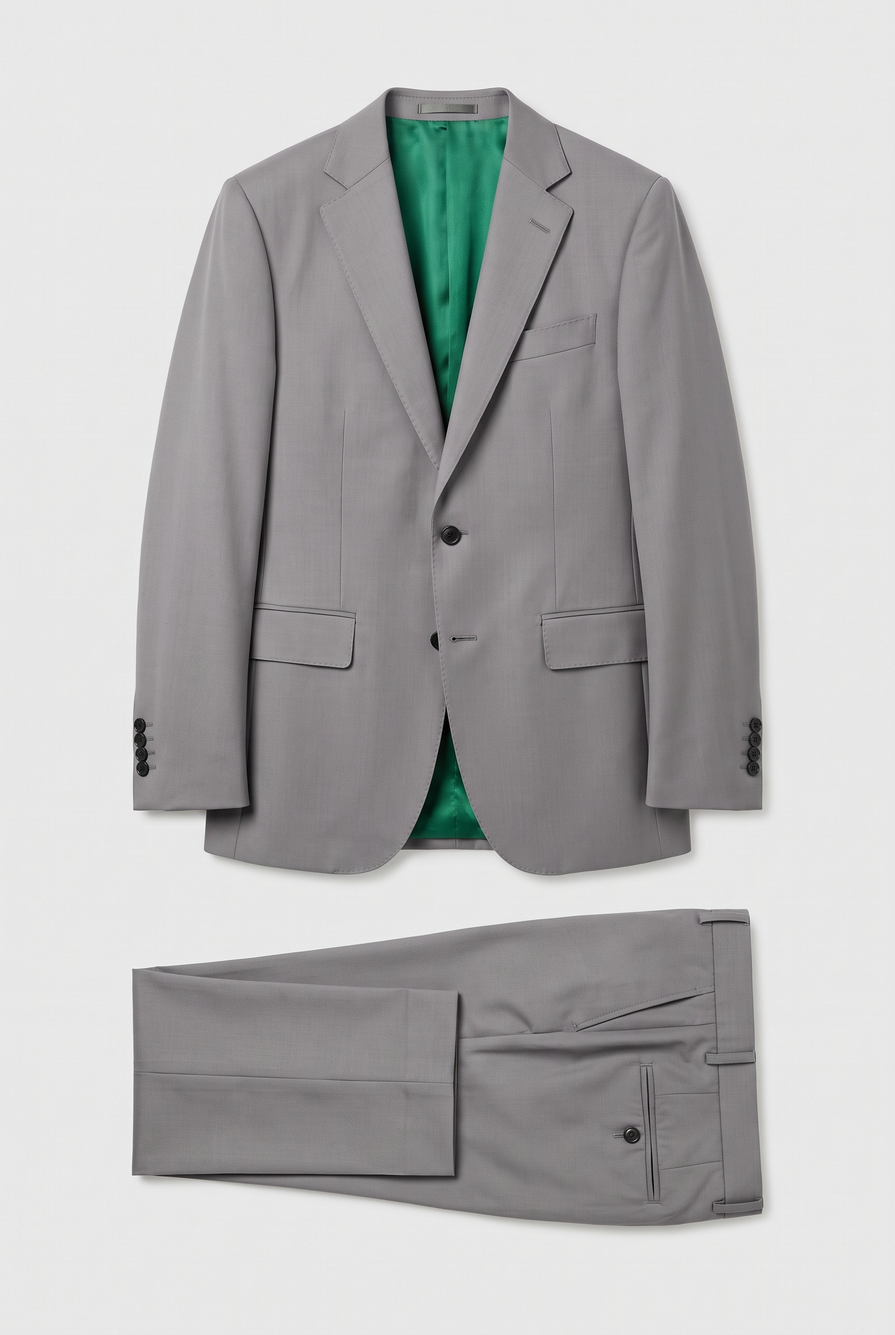
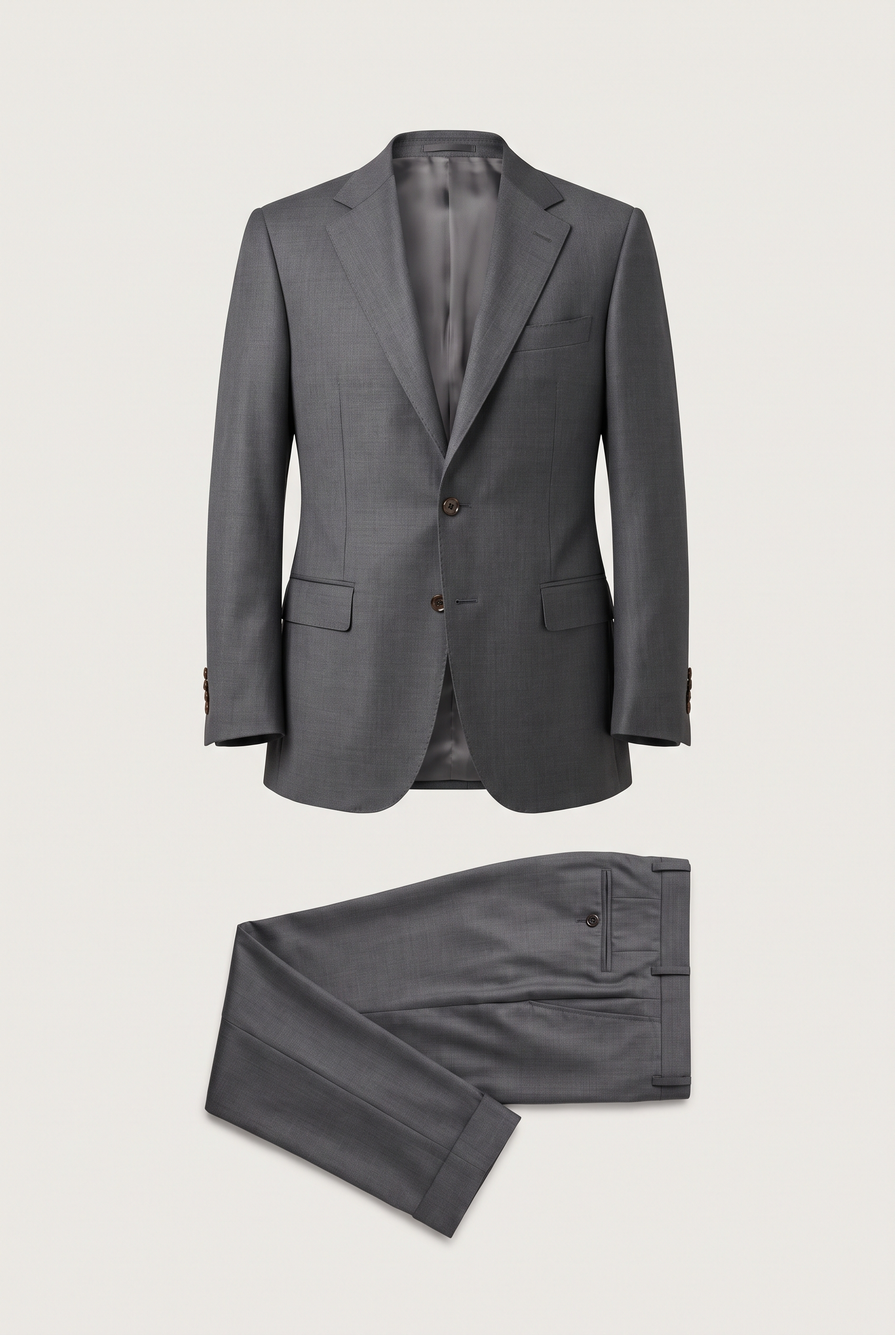
Suit designer: photographic front view from Nano Banana Pro luxury base shots, re-dyed per cloth with AI-matted masks (no background bleed)
Claude-Session: https://claude.ai/code/session_018gZGfgQVQEqPriUChi2SZJ

diff --git a/components/suit/Stage.tsx b/components/suit/Stage.tsx
@@ -3,21 +3,22 @@
 import { useCallback, useEffect, useRef, useState } from "react";
 import type { SuitConfig } from "@/lib/suit/types";
 import { SuitPreview, type PreviewView } from "./SuitPreview";
-import { ModelPreview, SKIN_TONES, type SkinToneId } from "./ModelPreview";
+import { SKIN_TONES, type SkinToneId } from "./ModelPreview";
+import { PhotoPreview } from "./PhotoPreview";
 
 /** Stage views: the photographic on-model views plus the flat technical drawings. */
 export type StageView = "model" | "modelBack" | PreviewView;
 
 const VIEW_LABELS: Record<StageView, string> = {
-  model: "On model",
+  model: "Front",
   modelBack: "Back",
-  front: "Flat",
-  back: "Flat back",
+  front: "Detail",
+  back: "Back",
   lining: "Inside",
   waistcoat: "Waistcoat",
 };
 
-const isModel = (v: StageView) => v === "model" || v === "modelBack";
+const isPhoto = (v: StageView) => v === "model";
 
 /** Close-up widths for the full-screen zoom, smallest first. Photos top out lower (source resolution). */
 const ZOOM_WIDTHS = ["min(170vw, 1000px)", "min(260vw, 1700px)", "min(380vw, 2500px)"];
@@ -33,35 +34,12 @@ function readSkin(): SkinToneId {
   }
 }
 
-function SkinSwatches({ skin, onSkin, compact = false }: { skin: SkinToneId; onSkin: (s: SkinToneId) => void; compact?: boolean }) {
-  return (
-    <div className={`flex items-center ${compact ? "gap-1" : "gap-1.5"}`} role="radiogroup" aria-label="Skin tone">
-      {!compact ? <span className="mr-1 text-[11px] uppercase tracking-wide text-muted">Skin</span> : null}
-      {SKIN_TONES.map((t) => {
-        const rgb = t.rgb ?? [164, 108, 81];
-        return (
-          <button
-            key={t.id}
-            type="button"
-            role="radio"
-            aria-checked={skin === t.id}
-            aria-label={`${t.label} skin tone`}
-            title={t.label}
-            onClick={() => onSkin(t.id)}
-            className={`h-6 w-6 rounded-full border ${skin === t.id ? "border-ink ring-1 ring-ink ring-offset-1" : "border-line"}`}
-            style={{ background: `rgb(${rgb.join(",")})` }}
-          />
-        );
-      })}
-    </div>
-  );
-}
-
-function Preview({ config, view, hideJacket, skin, fit, title }: { config: SuitConfig; view: StageView; hideJacket: boolean; skin: SkinToneId; fit: "contain" | "width"; title: string }) {
-  if (isModel(view)) {
-    return <ModelPreview config={config} view={view === "modelBack" ? "back" : "front"} hideJacket={hideJacket} skin={skin} fit={fit} className={fit === "width" ? "w-full" : "h-full w-full"} title={title} />;
+function Preview({ config, view, hideJacket, fit, title }: { config: SuitConfig; view: StageView; hideJacket: boolean; skin: SkinToneId; fit: "contain" | "width"; title: string }) {
+  const flat = (v: PreviewView) => <SuitPreview config={config} view={v} hideJacket={hideJacket} className={fit === "width" ? "block h-auto w-full" : "h-full w-full"} title={title} />;
+  if (isPhoto(view) && !hideJacket) {
+    return <PhotoPreview config={config} fit={fit} className={fit === "width" ? "w-full" : "h-full w-full p-[3%]"} title={title} fallback={flat("front")} />;
   }
-  return <SuitPreview config={config} view={view as PreviewView} hideJacket={hideJacket} className={fit === "width" ? "block h-auto w-full" : "h-full w-full"} title={title} />;
+  return flat(view === "model" ? "front" : view === "modelBack" ? "back" : (view as PreviewView));
 }
 
 function JacketIcon({ hidden }: { hidden: boolean }) {
@@ -92,10 +70,10 @@ export function Stage({
   const three = config.options["suit.pieces"] === "three";
   const [hideJacket, setHideJacket] = useState(false);
   const views: StageView[] = hideJacket
-    ? ["model", "modelBack", "front", "back"]
+    ? ["model", "back"]
     : three
-      ? ["model", "modelBack", "front", "back", "lining", "waistcoat"]
-      : ["model", "modelBack", "front", "back", "lining"];
+      ? ["model", "back", "lining", "waistcoat", "front"]
+      : ["model", "back", "lining", "front"];
   const current = views.includes(view) ? view : "model";
   const [zoomOpen, setZoomOpen] = useState(false);
   const [skin, setSkinState] = useState<SkinToneId>("brown");
@@ -174,19 +152,8 @@ export function Stage({
         <button type="button" onClick={() => setZoomOpen(true)} aria-label="Zoom" className="flex h-9 w-9 items-center justify-center border border-line bg-paper text-lg leading-none text-ink">
           +
         </button>
-        {isModel(current) ? (
-          <button
-            type="button"
-            onClick={() => setSkin(SKIN_TONES[(SKIN_TONES.findIndex((t) => t.id === skin) + 1) % SKIN_TONES.length]!.id)}
-            aria-label="Change skin tone"
-            className="flex h-9 w-9 items-center justify-center border border-line bg-paper"
-          >
-            <span className="h-5 w-5 rounded-full border border-line" style={{ background: `rgb(${(SKIN_TONES.find((t) => t.id === skin)?.rgb ?? [164, 108, 81]).join(",")})` }} />
-          </button>
-        ) : null}
       </div>
       <div className="hidden items-center justify-center gap-2 px-2 pb-3 sm:flex sm:px-4">
-        {isModel(current) ? <SkinSwatches skin={skin} onSkin={setSkin} /> : null}
         <button
           type="button"
           onClick={() => setHideJacket((h) => !h)}
@@ -231,7 +198,6 @@ function ZoomOverlay({
   hideJacket,
   onHideJacket,
   skin,
-  onSkin,
   onClose,
 }: {
   config: SuitConfig;
@@ -244,7 +210,7 @@ function ZoomOverlay({
   onSkin: (s: SkinToneId) => void;
   onClose: () => void;
 }) {
-  const widths = isModel(view) ? MODEL_ZOOM_WIDTHS : ZOOM_WIDTHS;
+  const widths = isPhoto(view) ? MODEL_ZOOM_WIDTHS : ZOOM_WIDTHS;
   const [level, setLevel] = useState(0);
   const [progress, setProgress] = useState({ top: 0, size: 1 });
   const scroller = useRef<HTMLDivElement>(null);
@@ -291,7 +257,7 @@ function ZoomOverlay({
   const on = `${tool} border-ink bg-ink text-cream`;
 
   return (
-    <div className={`fixed inset-0 z-[70] ${isModel(view) ? "bg-[#eeeeee]" : "bg-white"}`} role="dialog" aria-modal="true" aria-label="Close-up of your suit">
+    <div className={`fixed inset-0 z-[70] ${isPhoto(view) ? "bg-[#eeeeee]" : "bg-white"}`} role="dialog" aria-modal="true" aria-label="Close-up of your suit">
       <div ref={scroller} onScroll={measure} className="h-full w-full overflow-auto overscroll-contain">
         <div className="mx-auto" style={{ width: widths[level] }}>
           <Preview config={config} view={view} hideJacket={hideJacket} skin={skin} fit="width" title={`Close-up, ${VIEW_LABELS[view].toLowerCase()} view${hideJacket ? " without the jacket" : ""}`} />
@@ -327,12 +293,6 @@ function ZoomOverlay({
           <JacketIcon hidden={hideJacket} />
         </button>
       </div>
-
-      {isModel(view) ? (
-        <div className="fixed bottom-7 left-3 border border-line bg-white/90 px-2 py-1.5 backdrop-blur sm:left-5">
-          <SkinSwatches skin={skin} onSkin={onSkin} compact />
-        </div>
-      ) : null}
 
       {/* Scroll position indicator */}
       <div className="pointer-events-none fixed bottom-3 left-1/2 h-1 w-24 -translate-x-1/2 bg-line" aria-hidden="true">

diff --git a/components/suit/PhotoPreview.tsx b/components/suit/PhotoPreview.tsx
@@ -1,0 +1,149 @@
+"use client";
+
+import { useEffect, useRef, useState } from "react";
+import manifest from "@/lib/suit/photo-assets.json";
+import { getFabric } from "@/lib/suit/catalogue";
+import type { SuitConfig } from "@/lib/suit/types";
+
+/**
+ * Photographic front view. Nano Banana Pro product shots of one neutral-grey
+ * luxury suit (per style), turned into layers by scripts/build-suit-photos.py.
+ * Here the chosen cloth texture is tiled and multiplied by the photo's shading
+ * inside the cloth mask; everything outside the AI-matted garment stays
+ * transparent, so nothing bleeds onto the background.
+ */
+
+type Assets = Record<string, { width: number; height: number }>;
+const ASSETS = (manifest as { assets: Assets; tilePx: number }).assets;
+const TILE = (manifest as { tilePx: number }).tilePx ?? 180;
+
+export function choosePhoto(config: SuitConfig): string | null {
+  const o = config.options;
+  const has = (k: string) => (k in ASSETS ? k : null);
+  const closure = o["jacket.closure"] ?? "sb2";
+  const lapel = o["jacket.lapel"] ?? "notch";
+  const pockets = o["jacket.pockets"] ?? "flap";
+  if (closure === "mandarin") return has("front-mandarin");
+  if (closure === "db4") return has("front-db4-peak") ?? has("front-db6-peak");
+  if (closure === "db6") return has("front-db6-peak");
+  if (lapel === "shawl") return has("front-sb1-shawl");
+  if (closure === "sb1") return has(`front-sb1-${lapel}`) ?? has(`front-sb2-${lapel}`);
+  if (closure === "sb3") return has("front-sb3-notch");
+  if (lapel === "notch" && pockets !== "flap") return has(`front-sb2-${pockets === "none" ? "jetted" : pockets}`) ?? has("front-sb2-notch");
+  return has(`front-sb2-${lapel}`) ?? has("front-sb2-notch");
+}
+
+const cache = new Map<string, Promise<ImageData>>();
+function load(src: string, w?: number, h?: number) {
+  const key = `${src}@${w ?? ""}`;
+  let p = cache.get(key);
+  if (!p) {
+    p = new Promise<ImageData>((res, rej) => {
+      const img = new Image();
+      img.decoding = "async";
+      img.onload = () => {
+        const cw = w ?? img.naturalWidth;
+        const ch = h ?? img.naturalHeight;
+        const c = document.createElement("canvas");
+        c.width = cw;
+        c.height = ch;
+        const x = c.getContext("2d", { willReadFrequently: true })!;
+        x.imageSmoothingQuality = "high";
+        x.drawImage(img, 0, 0, cw, ch);
+        res(x.getImageData(0, 0, cw, ch));
+      };
+      img.onerror = () => {
+        cache.delete(key);
+        rej(new Error(src));
+      };
+      img.src = src;
+    });
+    cache.set(key, p);
+  }
+  return p;
+}
+
+const done = new Map<string, ImageData>();
+async function render(asset: string, fabricId: string): Promise<ImageData> {
+  const key = `${asset}|${fabricId}`;
+  const hit = done.get(key);
+  if (hit) return hit;
+  const f = getFabric(fabricId) ?? getFabric("house-navy-stretch")!;
+  const dir = `/suit-photos/${asset}`;
+  const [base, shade, mask, tex] = await Promise.all([load(`${dir}/base.webp`), load(`${dir}/shade.webp`), load(`${dir}/mask.png`), load(`/textures/fabrics/${f.id}.jpg`, TILE, TILE)]);
+  const W = base.width;
+  const H = base.height;
+  const out = new ImageData(W, H);
+  const b = base.data;
+  const s = shade.data;
+  const m = mask.data;
+  const t = tex.data;
+  const o = out.data;
+  for (let y = 0; y < H; y++) {
+    const ty = (y % TILE) * TILE;
+    for (let x = 0; x < W; x++) {
+      const i = (y * W + x) * 4;
+      const a = b[i + 3]!;
+      if (a === 0) continue;
+      const c = m[i]! / 255;
+      let r = b[i]!;
+      let g = b[i + 1]!;
+      let bl = b[i + 2]!;
+      if (c > 0.002) {
+        const k = (ty + (x % TILE)) * 4;
+        const sh = s[i]! / 128;
+        r = r * (1 - c) + t[k]! * sh * c;
+        g = g * (1 - c) + t[k + 1]! * sh * c;
+        bl = bl * (1 - c) + t[k + 2]! * sh * c;
+      }
+      o[i] = r;
+      o[i + 1] = g;
+      o[i + 2] = bl;
+      o[i + 3] = a;
+    }
+  }
+  if (done.size > 30) done.delete(done.keys().next().value!);
+  done.set(key, out);
+  return out;
+}
+
+export function PhotoPreview({ config, className = "", title, fit = "contain", fallback }: { config: SuitConfig; className?: string; title?: string; fit?: "contain" | "width"; fallback: React.ReactNode }) {
+  const asset = choosePhoto(config);
+  const ref = useRef<HTMLCanvasElement>(null);
+  const [state, setState] = useState<"loading" | "ready" | "error">("loading");
+  const fabric = config.fabric;
+
+  useEffect(() => {
+    if (!asset) return;
+    let off = false;
+    render(asset, fabric)
+      .then((d) => {
+        const c = ref.current;
+        if (off || !c) return;
+        c.width = d.width;
+        c.height = d.height;
+        c.getContext("2d")!.putImageData(d, 0, 0);
+        setState("ready");
+      })
+      .catch(() => !off && setState("error"));
+    return () => {
+      off = true;
+    };
+  }, [asset, fabric]);
+
+  if (!asset || state === "error") return <>{fallback}</>;
+  const meta = ASSETS[asset]!;
+  return (
+    <div className={`relative flex items-center justify-center ${className}`}>
+      <canvas
+        ref={ref}
+        width={meta.width}
+        height={meta.height}
+        role="img"
+        aria-label={title ?? "Your suit"}
+        className={`block transition-opacity duration-300 ${fit === "width" ? "h-auto w-full" : "h-full max-h-full w-auto max-w-full"} ${state === "ready" ? "opacity-100" : "opacity-0"}`}
+      />
+      {state === "loading" ? <span className="absolute text-[11px] uppercase tracking-wide text-muted">Preparing your cloth…</span> : null}
+    </div>
+  );
+}

diff --git a/components/suit/Configurator.tsx b/components/suit/Configurator.tsx
@@ -61,7 +61,7 @@ const MODEL_GROUPS = new Set(["suit.pieces", "suit.fabricMode", "jacket.closure"
 
 /** Which preview view best shows the option that was just changed. */
 function viewFor(groupId: string, current: StageView): StageView {
-  if (MODEL_GROUPS.has(groupId)) return current === "modelBack" ? current : "model";
+  if (MODEL_GROUPS.has(groupId) || groupId === "jacket.pockets") return "model";
   if (groupId.startsWith("waistcoat.")) return "waistcoat";
   if (groupId === "jacket.vents" || groupId === "trousers.backPockets" || groupId === "accents.elbowPatches") return "back";
   if (groupId.startsWith("accents.lining") || groupId === "accents.underCollar") return "lining";
@@ -346,7 +346,7 @@ export function Configurator() {
       {/* ---------------- Stage ---------------- */}
       <section
         className={`relative flex h-[40%] flex-none flex-col border-b border-line transition-colors duration-300 lg:h-full lg:flex-1 lg:border-b-0 lg:border-l ${
-          view === "model" || view === "modelBack" ? "bg-[#eeeeee]" : "bg-[radial-gradient(ellipse_at_50%_35%,rgb(var(--paper))_0%,rgb(var(--cream))_70%)]"
+          view === "model" ? "bg-[#eeeeee]" : "bg-[radial-gradient(ellipse_at_50%_35%,rgb(var(--paper))_0%,rgb(var(--cream))_70%)]"
         }`}
         aria-label="Suit preview"
       >
